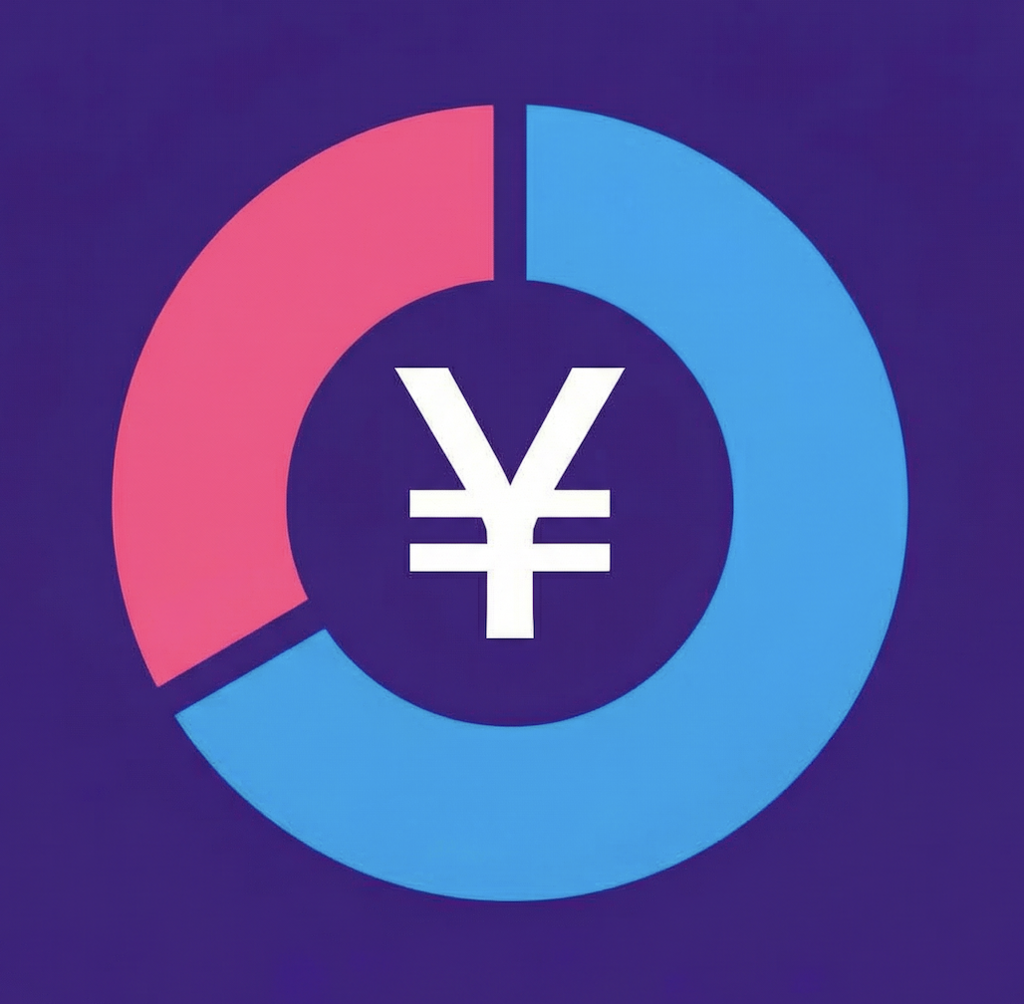
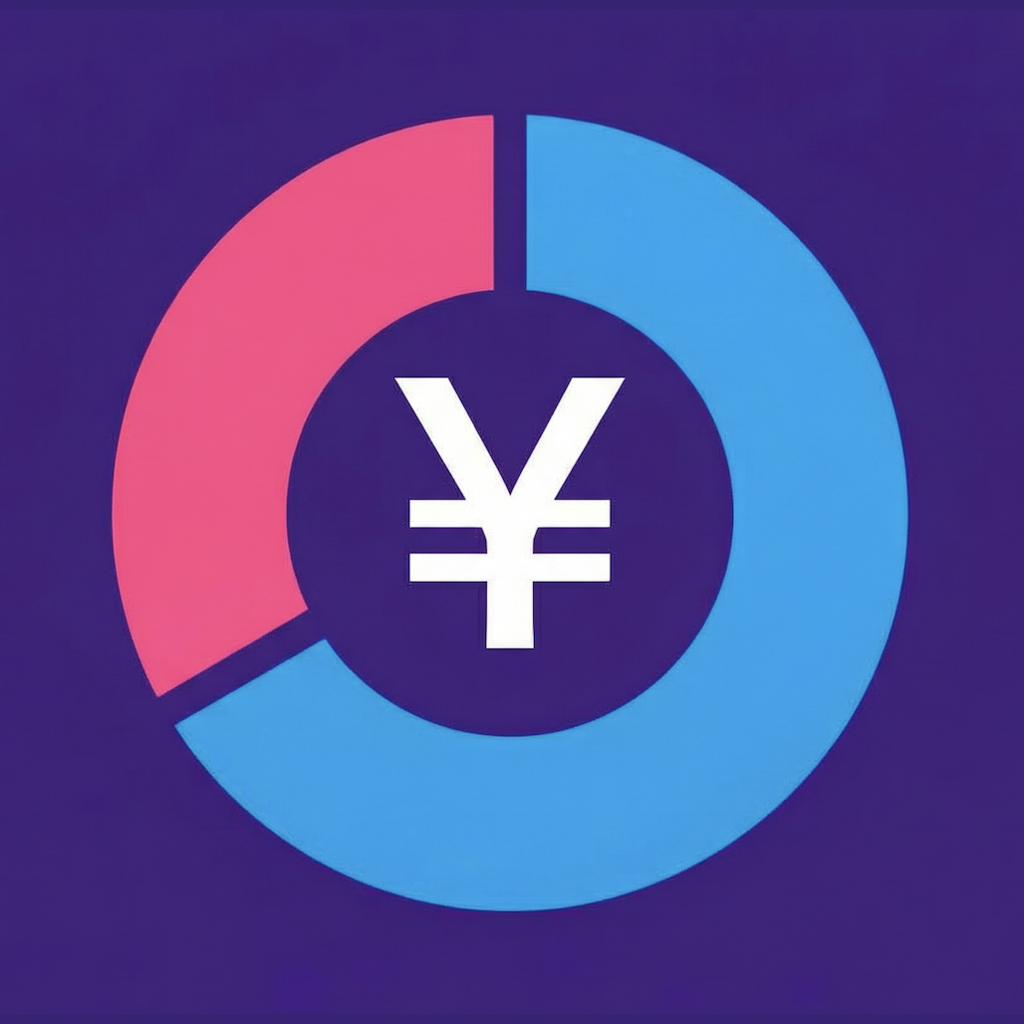
[update] 1.4.0 リリース準備: バージョン更新・アイコン修正・申請メモ
- バージョンを 1.4.0 に更新
- アプリアイコンを 1024x1024 の正方形に修正（元は 1024x1004 で、App Store の要件を満たさず expo-doctor が失敗していた。背景色を延ばしただけで絵柄は同じ・透明部分なし）
- docs/RELEASE.md を追加: 事前チェック、EAS でのビルド・申請手順、実機で確認する項目、App Store Connect に入れる文面（説明文・キーワード・プライバシー申告・審査メモ）、プライバシーポリシーの雛形
- expo-doctor 18/18 通過、本番用JSバンドルの書き出し成功を確認

diff --git a/docs/RELEASE.md b/docs/RELEASE.md
@@ -1,0 +1,106 @@
+# リリース手順とストア申請メモ
+
+## 1. 事前チェック（毎回）
+```bash
+npx tsc --noEmit        # 型チェック
+npm run lint            # 警告ゼロ
+npm test                # 単体テスト
+npx expo-doctor         # 18/18 通ること
+```
+- `app.json` の `version` を上げる（ビルド番号は EAS が `appVersionSource: remote` で自動採番）。
+- アイコン `assets/images/app-icon.png` は **1024×1024・透明なし**（App Store の要件）。
+
+## 2. ビルドと申請（EAS）
+```bash
+npx eas-cli login                      # 自分のアカウントで一度だけ
+npx eas-cli init                       # projectId を、使うアカウントのものに更新（初回のみ）
+npx eas-cli build --platform ios --profile production
+npx eas-cli submit --platform ios --latest
+```
+- 注意: `app.json` の `extra.eas.projectId` は、以前のアカウント（sinmouri14）のもの。**別のアカウントでビルドする場合は `eas init` で作り直す**。
+- Apple Developer Program への加入（年額）と、App Store Connect でのアプリ登録（バンドルID `com.sinmouri14.household`）が必要。
+- Xcode 27 向けの調整は `plugins/with-xcode27-fixes.js`（EAS のクラウドビルドでも prebuild 時に適用される）。
+
+## 3. 実機で確認してから出すもの（シミュレーターでは確かめられない）
+- [ ] リマインド通知が、設定した時刻に実際に届く
+- [ ] レシート写真をカメラで撮影して添付できる
+- [ ] Face ID でのロック解除（実機の Face ID / Touch ID）
+- [ ] 古いバージョンのデータが入った端末へ上書きインストールして、データが移行されて残る
+- [ ] iCloud Drive へのバックアップ保存と、別端末での復元
+- [ ] Android（戻るボタン、キーボード、通知、カメラ）。Android も出す場合
+
+## 4. App Store Connect に入れる内容
+
+### アプリ名・サブタイトル（案）
+- 名前: シンプル家計簿
+- サブタイトル: 登録不要・広告なしの家計簿
+
+### 説明文（案）
+> アカウント登録も広告もない、シンプルな家計簿アプリです。データはすべてお使いの端末の中だけに保存され、外部に送信されることはありません。
+>
+> ■ かんたんな記録
+> 支出・収入をすばやく入力。よく使う項目はテンプレートに登録できます。メモ、支払い方法、レシート写真も残せます。
+>
+> ■ 続けやすい工夫
+> 家賃や給与などの固定費は毎月自動で記録。毎日のリマインド通知で記録の習慣づけをサポートします。
+>
+> ■ 使いすぎに気づく
+> 月ごとの予算とカテゴリ別の予算を設定でき、ホームで進み具合を確認できます。先月との比較も一目でわかります。
+>
+> ■ 見やすい集計
+> 月・年ごとの収支、カテゴリ別の内訳、月ごとの推移をグラフで表示します。
+>
+> ■ 安心して使える
+> Face ID / パスコードでアプリをロックできます。バックアップをファイルに保存して、機種変更時に復元できます。
+
+### キーワード（案・100文字以内）
+`家計簿,収支,支出,収入,予算,節約,固定費,レシート,貯金,シンプル,無料,広告なし`
+
+### カテゴリ
+- プライマリ: ファイナンス
+
+### 年齢制限
+- 4+（暴力・成人向け内容なし）
+
+### App のプライバシー（栄養成分表示）
+- **データの収集: なし**（「データを収集しない」を選択）
+  - アプリは外部と通信しません（ネットワーク通信のコードなし）。広告・解析 SDK も使っていません。
+  - 入力されたデータはすべて端末内（アプリ専用の領域）にのみ保存されます。
+- 暗号化: 標準的な暗号化のみ使用（`ITSAppUsesNonExemptEncryption: false` 設定済み）
+- プライバシーポリシーの URL: **App Store の申請には URL が必要**。下の雛形を、公開できる場所（GitHub Pages など）に置く。
+
+### 審査用のメモ（Review Notes）
+> 登録・ログイン不要のアプリです。すべてのデータは端末内に保存され、通信は行いません。
+> 通知（リマインド）、カメラ・写真ライブラリ（レシート添付）、Face ID（アプリのロック）は、いずれも利用者が機能を有効にしたときに許可を求めます。
+
+### 権限の文言（`app.json` に設定済み）
+- Face ID: 家計簿のロックを解除するために Face ID を使用します。
+- 写真ライブラリ: レシートの写真を選んで記録に添付するために、写真ライブラリへアクセスします。
+- カメラ: レシートを撮影して記録に添付するために、カメラを使用します。
+
+### スクリーンショット
+- iPhone 6.9インチ（iPhone 16 Pro Max 相当）と 6.5インチが必要。
+- 掲載候補: ホーム（収支・予算）、支出入力、年間の集計、カテゴリ別予算、ダークモード。
+
+## 5. プライバシーポリシー（雛形）
+> **シンプル家計簿 プライバシーポリシー**
+>
+> 1. 収集する情報
+> 本アプリは、利用者の個人情報を収集しません。
+>
+> 2. 入力された情報の扱い
+> 利用者が入力した収支の記録、カテゴリ、予算、メモ、レシート写真などは、すべてお使いの端末内にのみ保存されます。開発者や第三者のサーバーへ送信されることはありません。
+>
+> 3. 端末の機能の利用
+> 通知（リマインド）、カメラ・写真ライブラリ（レシート添付）、Face ID / Touch ID（アプリのロック）は、利用者が機能を有効にしたときにのみ、その目的の範囲で使用します。取得した情報を外部に送ることはありません。
+>
+> 4. バックアップ
+> 「ファイルに保存」で作成したバックアップは、利用者が選んだ保存先（「ファイル」アプリや iCloud Drive など）に保存されます。その管理は利用者ご自身の責任となります。
+>
+> 5. 第三者提供・広告
+> 第三者への提供、広告の配信、利用状況の解析は行いません。
+>
+> 6. お問い合わせ
+> （連絡先メールアドレスをここに記載）
+>
+> 制定日: （申請日を記載）
